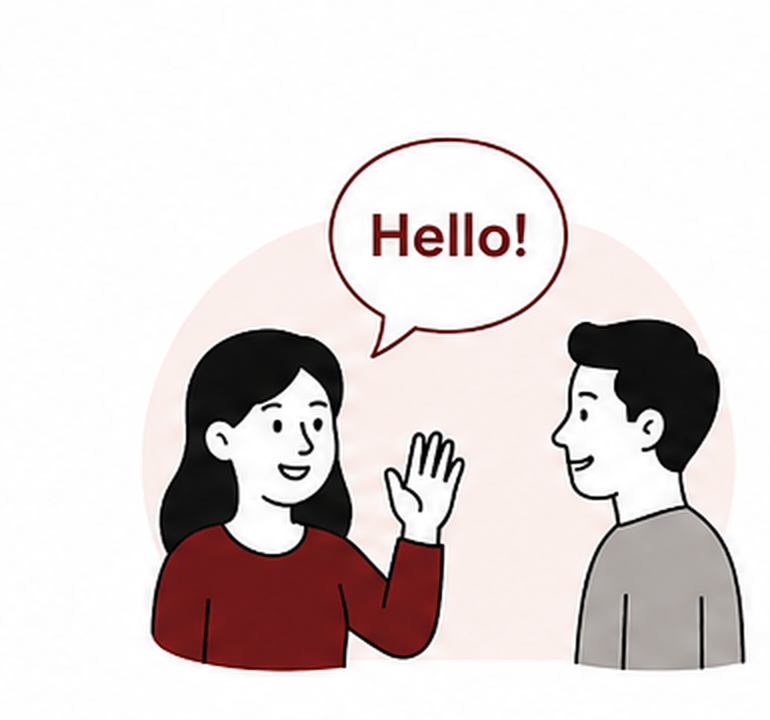
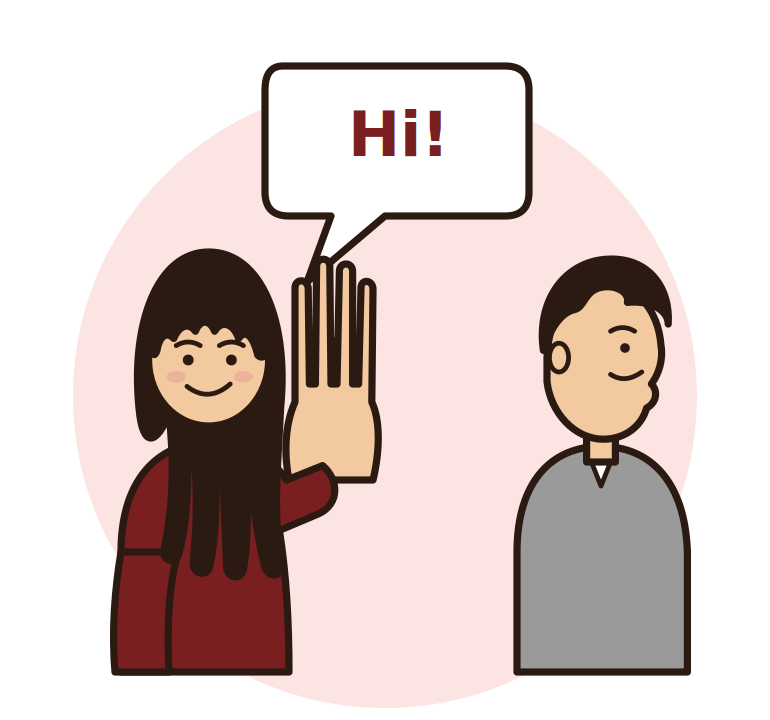
images

diff --git a/lit_english_frontend/js/icons.js b/lit_english_frontend/js/icons.js
@@ -78,5 +78,7 @@ const Icons = {
 
   trophyFilled: `<svg viewBox="0 0 24 24" fill="currentColor" stroke="none"><path d="M6 4h12v4.5a6 6 0 0 1-4.75 5.87V16h2.25a1 1 0 0 1 1 1v.5H9.5V17a1 1 0 0 1 1-1h2.25v-1.63A6 6 0 0 1 6 8.5V4Z"/><path d="M6 5.3H3.3a2.7 2.7 0 0 0 2.85 3.85 6 6 0 0 1-.15-1.15V5.3Z"/><path d="M18 5.3h2.7a2.7 2.7 0 0 1-2.85 3.85c.1-.37.15-.76.15-1.15V5.3Z"/><path d="M8.5 19h7l.6 2H7.9l.6-2Z"/></svg>`,
 
+  wave: `<svg viewBox="0 0 24 24" fill="none" stroke-width="2" stroke-linecap="round" stroke-linejoin="round"><path d="M4 5.5h16v11H8l-4 3.5v-3.5h0Z"/><path d="M9 11h.01M12 11h.01M15 11h.01"/></svg>`,
+
   arrowRight: `<svg viewBox="0 0 24 24" fill="none" stroke-width="2.3" stroke-linecap="round" stroke-linejoin="round"><path d="M4 12h15.5"/><path d="M13.5 5.5 20 12l-6.5 6.5"/></svg>`,
 };

diff --git a/lit_english_frontend/js/aprender.js b/lit_english_frontend/js/aprender.js
@@ -311,7 +311,7 @@ function renderCategories(data) {
 
   const activeIllustration = document.createElement("div");
   activeIllustration.className = "category-illustration category-illustration--greetings";
-  activeIllustration.innerHTML = `<img src="img/category-saudacoes-v2.png" width="385" height="360" alt="Duas pessoas se cumprimentando em inglês" class="category-illustration-img" />`;
+  activeIllustration.innerHTML = `<div class="category-illustration-icon">${Icons.wave}</div>`;
   activeCard.appendChild(activeIllustration);
 
   const activeTitle = document.createElement("h3");

diff --git a/lit_english_backend/scripts/seed_vocab_words.py b/lit_english_backend/scripts/seed_vocab_words.py
@@ -2695,16 +2695,58 @@ for _i, _item in enumerate(WORDS):
 def _fetch_existing_words(api_base_url: str, headers: dict) -> dict:
     """
     Busca todas as palavras já cadastradas (GET /vocab-words, visão do
-    professor) e devolve um dicionário {(word_lower, language, translation_lower): word_dict},
-    pra decidir rapidamente se cada item de WORDS já existe ou não.
+    professor) e devolve um dicionário {(word_lower, language): [word_dict, ...]},
+    agrupando por palavra+língua (SEM a tradução na chave).
+
+    Por quê: se a tradução entrar na chave de busca, editar a tradução de
+    uma palavra que já existe (ex.: melhorar "Boa noite" -> "Boa noite (ao
+    chegar)") faz o script deixar de "achar" o registro antigo e CRIAR um
+    novo — a palavra antiga fica órfã no banco pra sempre, ainda atribuída
+    aos alunos, inflando a contagem e nunca mais sendo atualizada. Foi
+    isso que aconteceu com boa parte da Parte 1 e com toda a Parte 2 (essa
+    ficou presa com category="saudacoes" porque a run que corrigiu a
+    categoria não achou o registro antigo pra atualizar).
+
+    Agrupar só por (word, language) resolve o caso comum (uma palavra, uma
+    tradução, que evolui com o tempo) sem perder o caso raro de verdade
+    (uma mesma palavra com DOIS sentidos diferentes, tipo "Ciao" em
+    italiano = Oi/Tchau) — esse caso é resolvido em _match_existing, que
+    usa a tradução só como desempate quando há mais de um candidato.
     """
     resp = requests.get(f"{api_base_url}/vocab-words", headers=headers)
     resp.raise_for_status()
-    existing = {}
+    existing_by_word: dict[tuple[str, str], list[dict]] = {}
     for w in resp.json():
-        key = (w["word"].strip().lower(), w["language"].strip().lower(), w["translation"].strip().lower())
-        existing[key] = w
-    return existing
+        key = (w["word"].strip().lower(), w["language"].strip().lower())
+        existing_by_word.setdefault(key, []).append(w)
+    return existing_by_word
+
+
+def _match_existing(existing_by_word: dict, item: dict, language: str) -> dict | None:
+    """
+    Acha o registro existente (se houver) que corresponde a este item de
+    WORDS, pra decidir CRIAR vs ATUALIZAR.
+
+    - 0 candidatos com essa palavra+língua        -> None (cria).
+    - 1 candidato                                  -> é ele, mesmo que a
+      tradução tenha mudado (é uma atualização de tradução, não uma
+      palavra nova).
+    - 2+ candidatos (mesma palavra, sentidos
+      diferentes, ex. "Ciao")                      -> tenta achar o que
+      já tem a MESMA tradução (pra não misturar sentidos); se nenhum
+      bater, trata como palavra nova de fato (cria mais um sentido).
+    """
+    key = (item["word"].strip().lower(), language.strip().lower())
+    candidates = existing_by_word.get(key, [])
+    if not candidates:
+        return None
+    if len(candidates) == 1:
+        return candidates[0]
+    target_translation = item["translation"].strip().lower()
+    for c in candidates:
+        if c["translation"].strip().lower() == target_translation:
+            return c
+    return None
 
 
 def _norm(value: str | None) -> str | None:
@@ -2761,8 +2803,7 @@ def main():
     summary = {"Criado": 0, "Atualizado": 0, "Inalterado": 0}
 
     for item in WORDS:
-        key = (item["word"].strip().lower(), LANGUAGE.strip().lower(), item["translation"].strip().lower())
-        existing = existing_words.get(key)
+        existing = _match_existing(existing_words, item, LANGUAGE)
 
         # Sem `student_ids`: na CRIAÇÃO, a API atribui automaticamente a
         # TODOS os alunos aprovados agora (e aos aprovados depois) que
